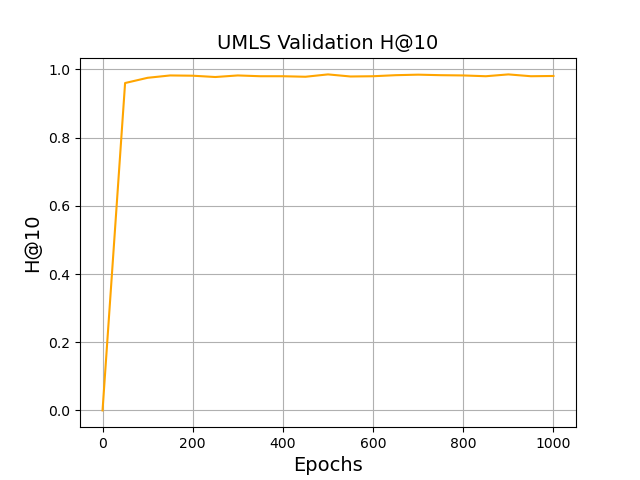
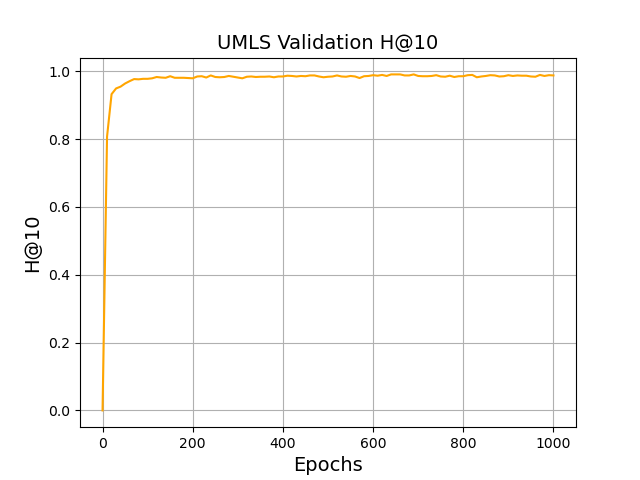
figures in thesis updated, result figures added

Changed region(s): [[0.0625, 0.125, 0.9062, 0.8438]]

diff --git a/writing/master-thesis/chapters/03_approach/sections/01_idea.tex b/writing/master-thesis/chapters/03_approach/sections/01_idea.tex
@@ -10,27 +10,24 @@
 % - why uncertainty sampling can solve them
 
 
-% description and general introduction to solution
+% origin of my idea
 With our approach, we aim to improve the training process of embedding models by incorporating more information into the Negative Sampling process and thus selecting negative examples that are more informative and more valuable for the embedding model.
 This is achieved by including Uncertainty Sampling in state-of-the-art approaches.
-Uncertainty Sampling is the most commonly used query framework among all the other strategies frameworks (\autoref{sec:uncertaintysampling}) from Active Learning.
-In addition, it is easier to implement than some other frameworks, because, for example, it does not require to train multiple models as is the case with the Query-by-Committee approach.
-Nevertheless, it provides promising results for many Active Learning scenarios and is therefore also used for our approach to sample negative triples.
+Accordingly, different approaches from the three categories of Static Distribution-Based Sampling (\autoref{subsec:static_distribution_based_sampling}, Custom Cluster-Based Sampling (\autoref{subsec:custom_cluster_based_sampling}) and Dynamic Distribution-Based Sampling (\autoref{subsec:dynamic_distribution_based_sampling}) are available. The basic idea of Sampling by Uncertainty is to select particularly interesting negative triples from an existing set of negatives.
+Which are exactly the negative triples that are most informative for the KGE model.
+Thus, it is irrelevant by which of the three negative sampling methods (\autoref{sec:uncertaintysampling}) the negative triples originate.
 
-Since \ac{KBGAN} captures the dynamic distribution of negative examples, but suffers particularly from non-efficient Sampling, our first considerations are based on this approach.
-This addresses the problem of instability and degeneracy of the training process, so that it is more likely to sample negative examples with a higher gradient.
-However, it is also conceivable for other existing approaches with an inefficient Negative Sampling process by replacing it with Uncertainty Sampling.
+% Why did I choose KBGAN (Sampling Negatives from Dynamic Distribution) 
+Since in the pioneer of the dynamic distribution-based sampling method KBGAN exactly such a principle is present to select from an existing set of negative triples, we will first implement our idea based on this approach.
+Moreover, it specifically suffers from inefficient Sampling which slows down adversarial training.
+For this reason, we aim to accelerate the learning process of KBGAN by selecting more informative triples for the negative triple set $Neg$.
+But what does informative mean at this point?
 
-% ways to improve KBGAN
-In general, in \ac{KBGAN} there are two different ways to improve the approach and to allow Sampling of negative triples with a higher gradient:
-First, this can be achieved by improving the general quality of the negative examples in subset $Neg$.
-In the original approach, $Neg$ is generated only by Uniform Sampling, so that with high probability there are many useless negative triples.
-Second, the adversarial learning process can be optimized by learning faster with less Sampling which is addressed by our approach.
-To achieve this, we want to sample more informative negative examples.
-Informative at this point means particularly interesting triples for the embedding model because those that are difficult to classify as positive or negative triple.
+% DEFINITION OF INFORMATIVE SAMPLES
+Informative means particularly interesting triples for the embedding model because those that are difficult to classify as positive or negative triple.
+Therefore they help the embedding model the most to differentiate between negative and positive triples.
 In many other negative sampling approaches, the goal is to create so-called hard negative examples and use them for the training process of the embedding model. 
-In our approach, the result of the sampling process can also be such a hard negative example, but this need not necessarily be the case.
-Now, what 
+In our approach, the result of the sampling process can also be hard negative example, but this need not necessarily be the case.
 In \autoref{fig:informativeinstances} the distinction between informative and hard negative examples is illustrated.
 \begin{figure*}[t]
   \centering
@@ -40,9 +37,48 @@ In \autoref{fig:informativeinstances} the distinction between informative and ha
 \end{figure*}
 For simplicity, positive and negative instances are shown here in two-dimensional embedding space with dimensions d1 and d2.
 The embedding models sets the border between positive and negative triples at b1.
-For the approach of sampling hard negatives the embedding model should choose negative instance n1 because it is the closest one to the border b1 and therefore, it is the most difficult one to classify as positive or negative.
+For the approach of sampling hard negatives the embedding model would choose negative instance n1 because it is the closest one to the border b1 and therefore, it is the most difficult one to classify as positive or negative.
 Instead, Uncertainty Sampling aims to sample the most informative negative triple.
-But what is the most informative triple for an embedding model?
+But what is the most informative triple in this case for an embedding model?
 The most informative triple is the one that the model helps the most to distinguish between positive and negative triples.
 For this reason, the negative triple n2 would be much more informative, since its classification would indicate whether the boundary between positive and negative triples should rather be set at b1 or at b2.
 Thus, by setting the new boundary b2 would contribute to a more accurate embedding of the data.
+
+% why uncertainty sampling can solve current problems
+
+
+
+
+Uncertainty Sampling is the most commonly used query framework among all the other strategies frameworks (\autoref{sec:uncertaintysampling}) from Active Learning \cite{Settles2009ActiveLL}.
+In addition, it is easier to implement than some other frameworks, because, for example, it does not require to train multiple models as is the case with the Query-by-Committee approach.
+Nevertheless, Uncertainty Sampling provides promising results for many Active Learning scenarios and is therefore also used for our approach to sample negative triples.
+
+
+
+% NOTES:
+- for uncertainty sampling, we need a classification Problem: Binary Classification: positive or negative triple
+-> differentiation to KBGAN: Discriminator is no classifier like in original GANs
+- if it is a classifier: either it is positive or negative (ADD VISUALIZATION)
+- classifier may not be sure which class is correct -> classifier is uncertain
+- either: uncertainty of Generator or discriminator:
+-> Generator: corresponds to original process flow
+-> in Uncertainty Sampling of Active Learning, sampled instances are annotated by human
+-> in our case, uncertain Generator "asks" discriminator how to label it
+-> because negative and original positive triple are given to discriminator, it can be labeled and rewarded, if it was difficult to classify
+- BEFORE: probability distribution, highest probability for negative triple which is likely a positive
+-> results: 
+    - linear, also negatives with very low score/unlikely to be positive get a probability to be sampled 
+    - negatives with score higher than positives are sampled -> false negatives?
+    - 
+- show Figure with scores of positive and negative triples:
+-> question: Which Negatives should be sampled to train the discriminator
+- left ones are bad negatives -> low probability to be sampled
+- right ones are close to positive scores -> may be even a false negative triple ?
+- before we want to find the most informative triples, we need a pool of negatives from which to sample
+-  
+    
+KGE: 
+- describe process of KGE learning embedding
+- score for each triple -> increase margin between positives and negatives
+- 
+

diff --git a/writing/master-thesis/chapters/05_evaluation/sections/02_results_umls.tex b/writing/master-thesis/chapters/05_evaluation/sections/02_results_umls.tex
@@ -39,6 +39,7 @@ Discriminator: TransE
     \label{fig:test}
 \end{figure}
 
+\pagebreak
 
 \textbf{Adversarial Training - Random}\\
 \begin{figure}
@@ -63,4 +64,55 @@ Discriminator: TransE
     \label{fig:test}
 \end{figure}
 
-\textbf{Adversarial Training - Uncertainty}\\
+\pagebreak
+
+\textbf{Adversarial Training - Uncertainty Max}\\
+\begin{figure}
+    \centering
+    \begin{minipage}{.5\textwidth}
+      \centering
+      \includegraphics[width=0.9\linewidth]{figures/results/UMLS/AdversarialTraining/Uncertainty/Max/gan_train_umls_losses.png}
+    \end{minipage}%
+    \begin{minipage}{.5\textwidth}
+      \centering
+      \includegraphics[width=0.9\linewidth]{figures/results/UMLS/AdversarialTraining/Uncertainty/Max/gan_train_umls_rewards.png}
+    \end{minipage}
+    \begin{minipage}{.5\textwidth}
+      \centering
+      \includegraphics[width=0.9\linewidth]{figures/results/UMLS/AdversarialTraining/Uncertainty/Max/gan_train_umls_mrr.png}
+    \end{minipage}%
+    \begin{minipage}{.5\textwidth}
+      \centering
+      \includegraphics[width=0.9\linewidth]{figures/results/UMLS/AdversarialTraining/Uncertainty/Max/gan_train_umls_hit10.png}
+    \end{minipage}%
+    \caption{Adversarial Training with Uncertainty Sampling Max of TransE on UMLS Dataset}
+    \label{fig:test}
+\end{figure}
+
+
+\pagebreak
+
+
+\textbf{Adversarial Training - Uncertainty Max Distribution}\\
+\begin{figure}
+    \centering
+    \begin{minipage}{.5\textwidth}
+      \centering
+      \includegraphics[width=0.9\linewidth]{figures/results/UMLS/AdversarialTraining/Uncertainty/Max_Distribution/gan_train_umls_losses.png}
+    \end{minipage}%
+    \begin{minipage}{.5\textwidth}
+      \centering
+      \includegraphics[width=0.9\linewidth]{figures/results/UMLS/AdversarialTraining/Uncertainty/Max_Distribution/gan_train_umls_rewards.png}
+    \end{minipage}
+    \begin{minipage}{.5\textwidth}
+      \centering
+      \includegraphics[width=0.9\linewidth]{figures/results/UMLS/AdversarialTraining/Uncertainty/Max_Distribution/gan_train_umls_mrr.png}
+    \end{minipage}%
+    \begin{minipage}{.5\textwidth}
+      \centering
+      \includegraphics[width=0.9\linewidth]{figures/results/UMLS/AdversarialTraining/Uncertainty/Max_Distribution/gan_train_umls_hit10.png}
+    \end{minipage}%
+    \caption{Adversarial Training with Uncertainty Sampling Max Distribution of TransE on UMLS Dataset}
+    \label{fig:test}
+\end{figure}
+

diff --git a/writing/master-thesis/chapters/05_evaluation/sections/02_results_wn18rr.tex b/writing/master-thesis/chapters/05_evaluation/sections/02_results_wn18rr.tex
@@ -39,28 +39,32 @@ Discriminator: TransE
     \label{fig:test}
 \end{figure}
 
+\pagebreak
+
 
 \textbf{Adversarial Training - Random}\\
-%\begin{figure}
-%    \centering
-%    \begin{minipage}{.5\textwidth}
-%      \centering
-%      \includegraphics[width=0.9\linewidth]{figures/results/WN18RR/AdversarialTr%aining/Random/gan_train_wn18rr_losses.png}
-%    \end{minipage}%
-%    \begin{minipage}{.5\textwidth}
-%      \centering
-%      \includegraphics[width=0.9\linewidth]{figures/results/WN18RR/AdversarialTr%aining/Random/gan_train_wn18rr_rewards.png}
-%    \end{minipage}
-%    \begin{minipage}{.5\textwidth}
-%      \centering
-%      \includegraphics[width=0.9\linewidth]{figures/results/WN18RR/AdversarialTr%aining/Random/gan_train_wn18rr_mrr.png}
-%    \end{minipage}%
-%    \begin{minipage}{.5\textwidth}
-%      \centering
-%      \includegraphics[width=0.9\linewidth]{figures/results/WN18RR/AdversarialTr%aining/Random/gan_train_wn18rr_hit10.png}
-%    \end{minipage}%
-%    \caption{Adversarial Training with Random Sampling of TransE on WN18RR %Dataset}
-%    \label{fig:test}
-%\end{figure}
+\begin{figure}
+    \centering
+    \begin{minipage}{.5\textwidth}
+      \centering
+      \includegraphics[width=0.9\linewidth]{figures/results/WN18RR/AdversarialTraining/Random/gan_train_wn18rr_losses.png}
+    \end{minipage}%
+    \begin{minipage}{.5\textwidth}
+      \centering
+      \includegraphics[width=0.9\linewidth]{figures/results/WN18RR/AdversarialTraining/Random/gan_train_wn18rr_rewards.png}
+    \end{minipage}
+    \begin{minipage}{.5\textwidth}
+      \centering
+      \includegraphics[width=0.9\linewidth]{figures/results/WN18RR/AdversarialTraining/Random/gan_train_wn18rr_mrr.png}
+   \end{minipage}%
+    \begin{minipage}{.5\textwidth}
+      \centering
+      \includegraphics[width=0.9\linewidth]{figures/results/WN18RR/AdversarialTraining/Random/gan_train_wn18rr_hit10.png}
+    \end{minipage}%
+    \caption{Adversarial Training with Random Sampling of TransE on WN18RR Dataset}
+    \label{fig:test}
+\end{figure}
+
+\pagebreak
 
 \textbf{Adversarial Training - Uncertainty}\\

diff --git a/writing/master-thesis/chapters/03_approach/sections/04_feature_functions.tex b/writing/master-thesis/chapters/03_approach/sections/04_feature_functions.tex
@@ -6,8 +6,8 @@
 
 - present all different feature functions\\
 -> depending on option 1 or 2: they have to return same order of positive and negative triple scores\\
-- a) (h,r,?) number of appearances in KG
-- b) (?,r,t) number of appearances in KG
+- a)  number of appearances of pair $(h,r)$ with $h \in \entities$ and $r \in \relations$ in the KG
+- b) number of appearances of $(r,t)$ with $t \in \entities$ and $r \in \relations$ in KG
 - c) ...
 
 
@@ -20,21 +20,21 @@ Then the $Generator\_Score$ function contains the following features from \cite{
     \emph{\ac{PEER}:} 
     Relative frequency of peers within a peer group that is related to different objects, e.g. 0.9 of persons are married. 
     \begin{equation}
-        PEER(h,r) = \frac{|\{p | p \in peergroup(h), (p, r, \_) \in \mathcal{T}\}|}{|peergroup(h)|}
+        PEER(h,r) = \frac{|\{p | p \in peergroup(h), (h, r, t) \in \mathcal{T}\}|}{|peergroup(h)|}
     \end{equation}
 
     \item
     \emph{\ac{POP}:} 
     The popularity of the tail entity $t$ in $\mathcal{T}$. 
     \begin{equation}
-        POP(t) = \frac{|\{t | (\_, t, \_) \in \mathcal{T}\}|}{|\mathcal{T}|}
+        POP(t) = \frac{|\{t | (h, r , t) \in \mathcal{T}\}|}{|\mathcal{T}|}
     \end{equation}
 
     \item 
     \emph{\ac{FRQ}:} 
     Frequency of a relation/predicate $r$ in $\mathcal{T}$. 
     \begin{equation}
-        FRQ(r) = \frac{|\{r | (\_, r, \_) \in \mathcal{T}\}|}{|\mathcal{T}|}
+        FRQ(r) = \frac{|\{r | (h, r, t) \in \mathcal{T}\}|}{|\mathcal{T}|}
     \end{equation}
     
     \item 

diff --git a/writing/master-thesis/chapters/03_approach/sections/02_architecture_and_procedure.tex b/writing/master-thesis/chapters/03_approach/sections/02_architecture_and_procedure.tex
@@ -6,16 +6,17 @@
 % - general procedure for placement in the overall context 
 % - comparison between original KBGAN approach and my approach
 % - references to the following sections an why these are described
-
-
-
-In the original \ac{KBGAN} approach, as shown in \autoref{fig:architecture}, the sampling process from a negative triple set $Neg$ is replaced by Uncertainty Sampling.
+The procedure of the original KBGAN approach was described in \autoref{sec:kbgan}.
+For our approach, the random sampling from negative triple set $Neg$ is replaced by sampling by uncertainty in our approach.
+This causes a change in the adversarial learning procedure, so the adapted version is explained in more detail here.
+This procedure is depicted in \autoref{fig:uncertainty_sampling_architecture}.
 \begin{figure*}[t]
   \centering
     \includegraphics[width=0.90\textwidth]{figures/architecture.png}
   \caption{Uncertainty Sampling replaces the original Random Sampling technique in \ac{KBGAN}.}
-  \label{fig:architecture}
+  \label{fig:uncertainty_sampling_architecture}
 \end{figure*}
+
 After the set of negative triples $Neg$ is formed, different scores are calculated for all triples in the set.
 Based on this calculated value, the uncertainty of the model in the classification is calculated and then the example with the highest score is sampled. 
 

diff --git a/writing/master-thesis/chapters/03_approach/sections/08_sampling_by_uncertainty.tex b/writing/master-thesis/chapters/03_approach/sections/08_sampling_by_uncertainty.tex
@@ -23,3 +23,22 @@ and accordingly the probability of a triple to be negative ($y=0$) as
 \begin{equation}
     \mathds{P}(y = 0|(h, r, t)) := 1 - \mathds{P}(y = 1|(h, r, t)) \in [0,1]
 \end{equation}
+
+
+\begin{figure}
+    \centering
+    \begin{minipage}{.33\textwidth}
+      \centering
+      \includegraphics[width=0.9\linewidth]{figures/entropy_graph.PNG}
+    \end{minipage}%
+    \begin{minipage}{.33\textwidth}
+      \centering
+      \includegraphics[width=0.9\linewidth]{figures/least_confident_graph.PNG}
+    \end{minipage}
+    \begin{minipage}{.33\textwidth}
+      \centering
+      \includegraphics[width=0.9\linewidth]{figures/least_confident_graph.PNG}
+    \end{minipage}%
+    \caption{Uncertainty measured by (a) Entropy, (b) Least Confident and (c) Smallest Margin.}
+    \label{fig:test}
+\end{figure}

diff --git a/writing/master-thesis/chapters/02_background/sections/04_training_techniques.tex b/writing/master-thesis/chapters/02_background/sections/04_training_techniques.tex
@@ -14,6 +14,7 @@ Among all of there \ac{KGE} models, three commonly used approaches are used for 
     
     \item \textbf{KvsAll}:
     The KvsAll training type is divided into two different steps:
-    At first, instead of constructing negatives from individual positive triples, KvsAll constructs batches from non-empty rows $(h,r,*)$ or $(*,r,t)$.
+    At first, triples are created from non-empty rows $(h,r,t)$.
+    Therefore, a pair $(h,r)$ is taken and scored against all entities $t \in \entities$.
     Secondly, all of these generated triples are labeled as either positive or negative.
 \end{enumerate}

diff --git a/writing/master-thesis/chapters/06_summaryanddiscussion/summaryanddiscussion.tex b/writing/master-thesis/chapters/06_summaryanddiscussion/summaryanddiscussion.tex
@@ -3,8 +3,6 @@
 
 \input{chapters/06_summaryanddiscussion/sections/01_summary}
 
-\input{chapters/06_summaryanddiscussion/sections/02_contributions}
+\input{chapters/06_summaryanddiscussion/sections/02_limitations}
 
-\input{chapters/06_summaryanddiscussion/sections/03_limitations}
-
-\input{chapters/06_summaryanddiscussion/sections/04_future_work}
+\input{chapters/06_summaryanddiscussion/sections/03_future_work}

diff --git a/writing/master-thesis/chapters/06_summaryanddiscussion/sections/03_future_work.tex b/writing/master-thesis/chapters/06_summaryanddiscussion/sections/03_future_work.tex
@@ -1,0 +1,7 @@
+\section{Future work} 
+\label{sec:futurework}
+
+
+
+FUTURE WORK:
+- combine Uncertainty Sampling with other approaches

diff --git a/writing/master-thesis/chapters/06_summaryanddiscussion/sections/02_limitations.tex b/writing/master-thesis/chapters/06_summaryanddiscussion/sections/02_limitations.tex
@@ -1,0 +1,2 @@
+\section{Limitations}  \label{sec:limitations}
+
